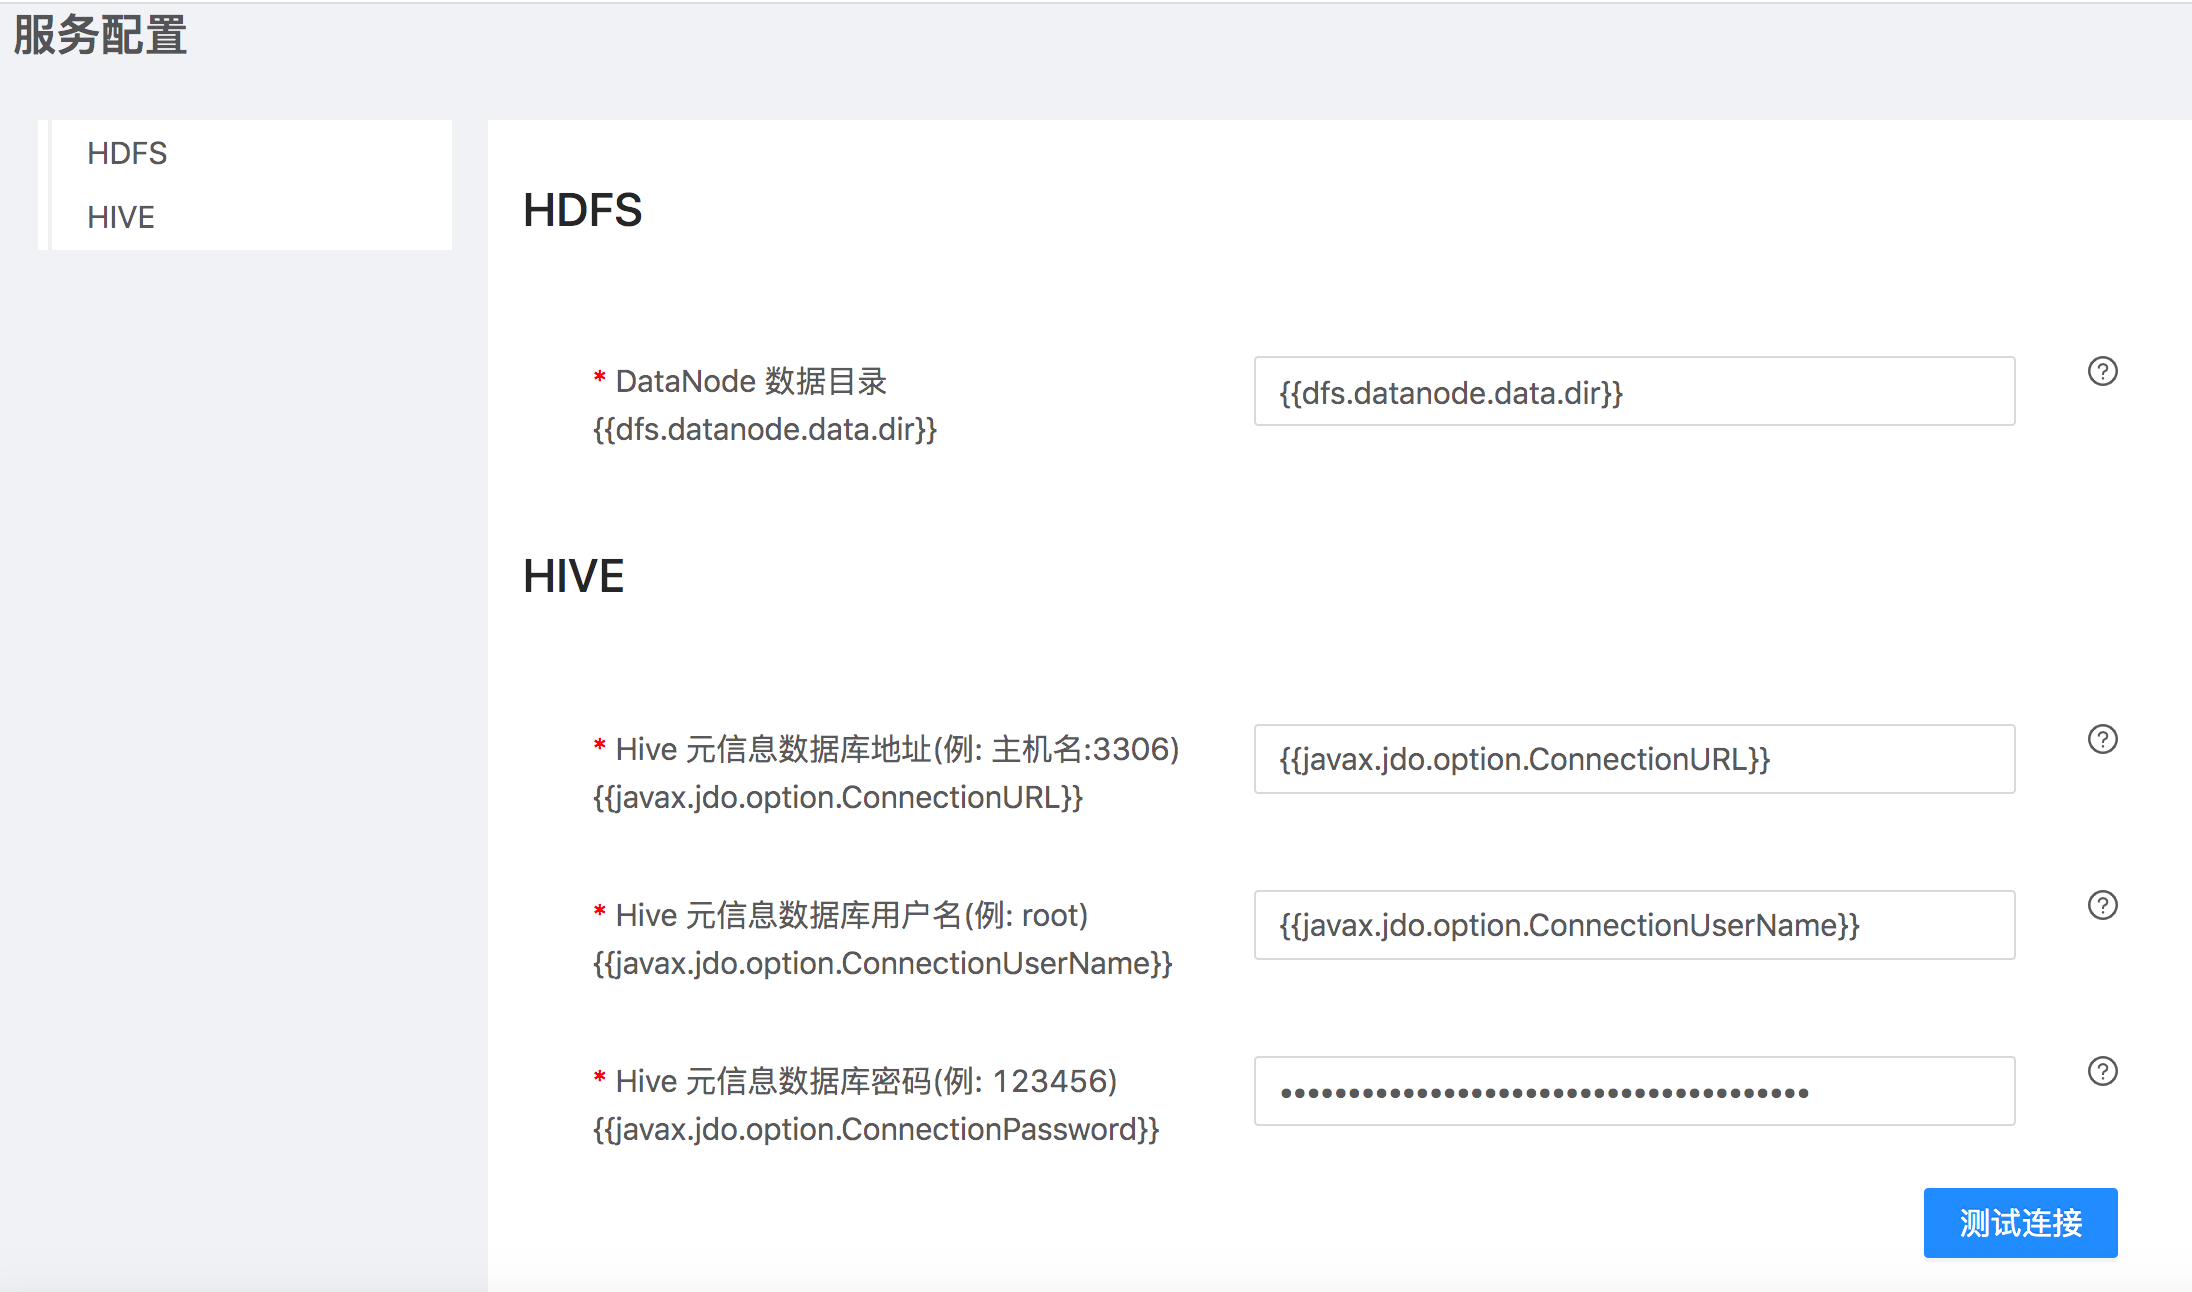
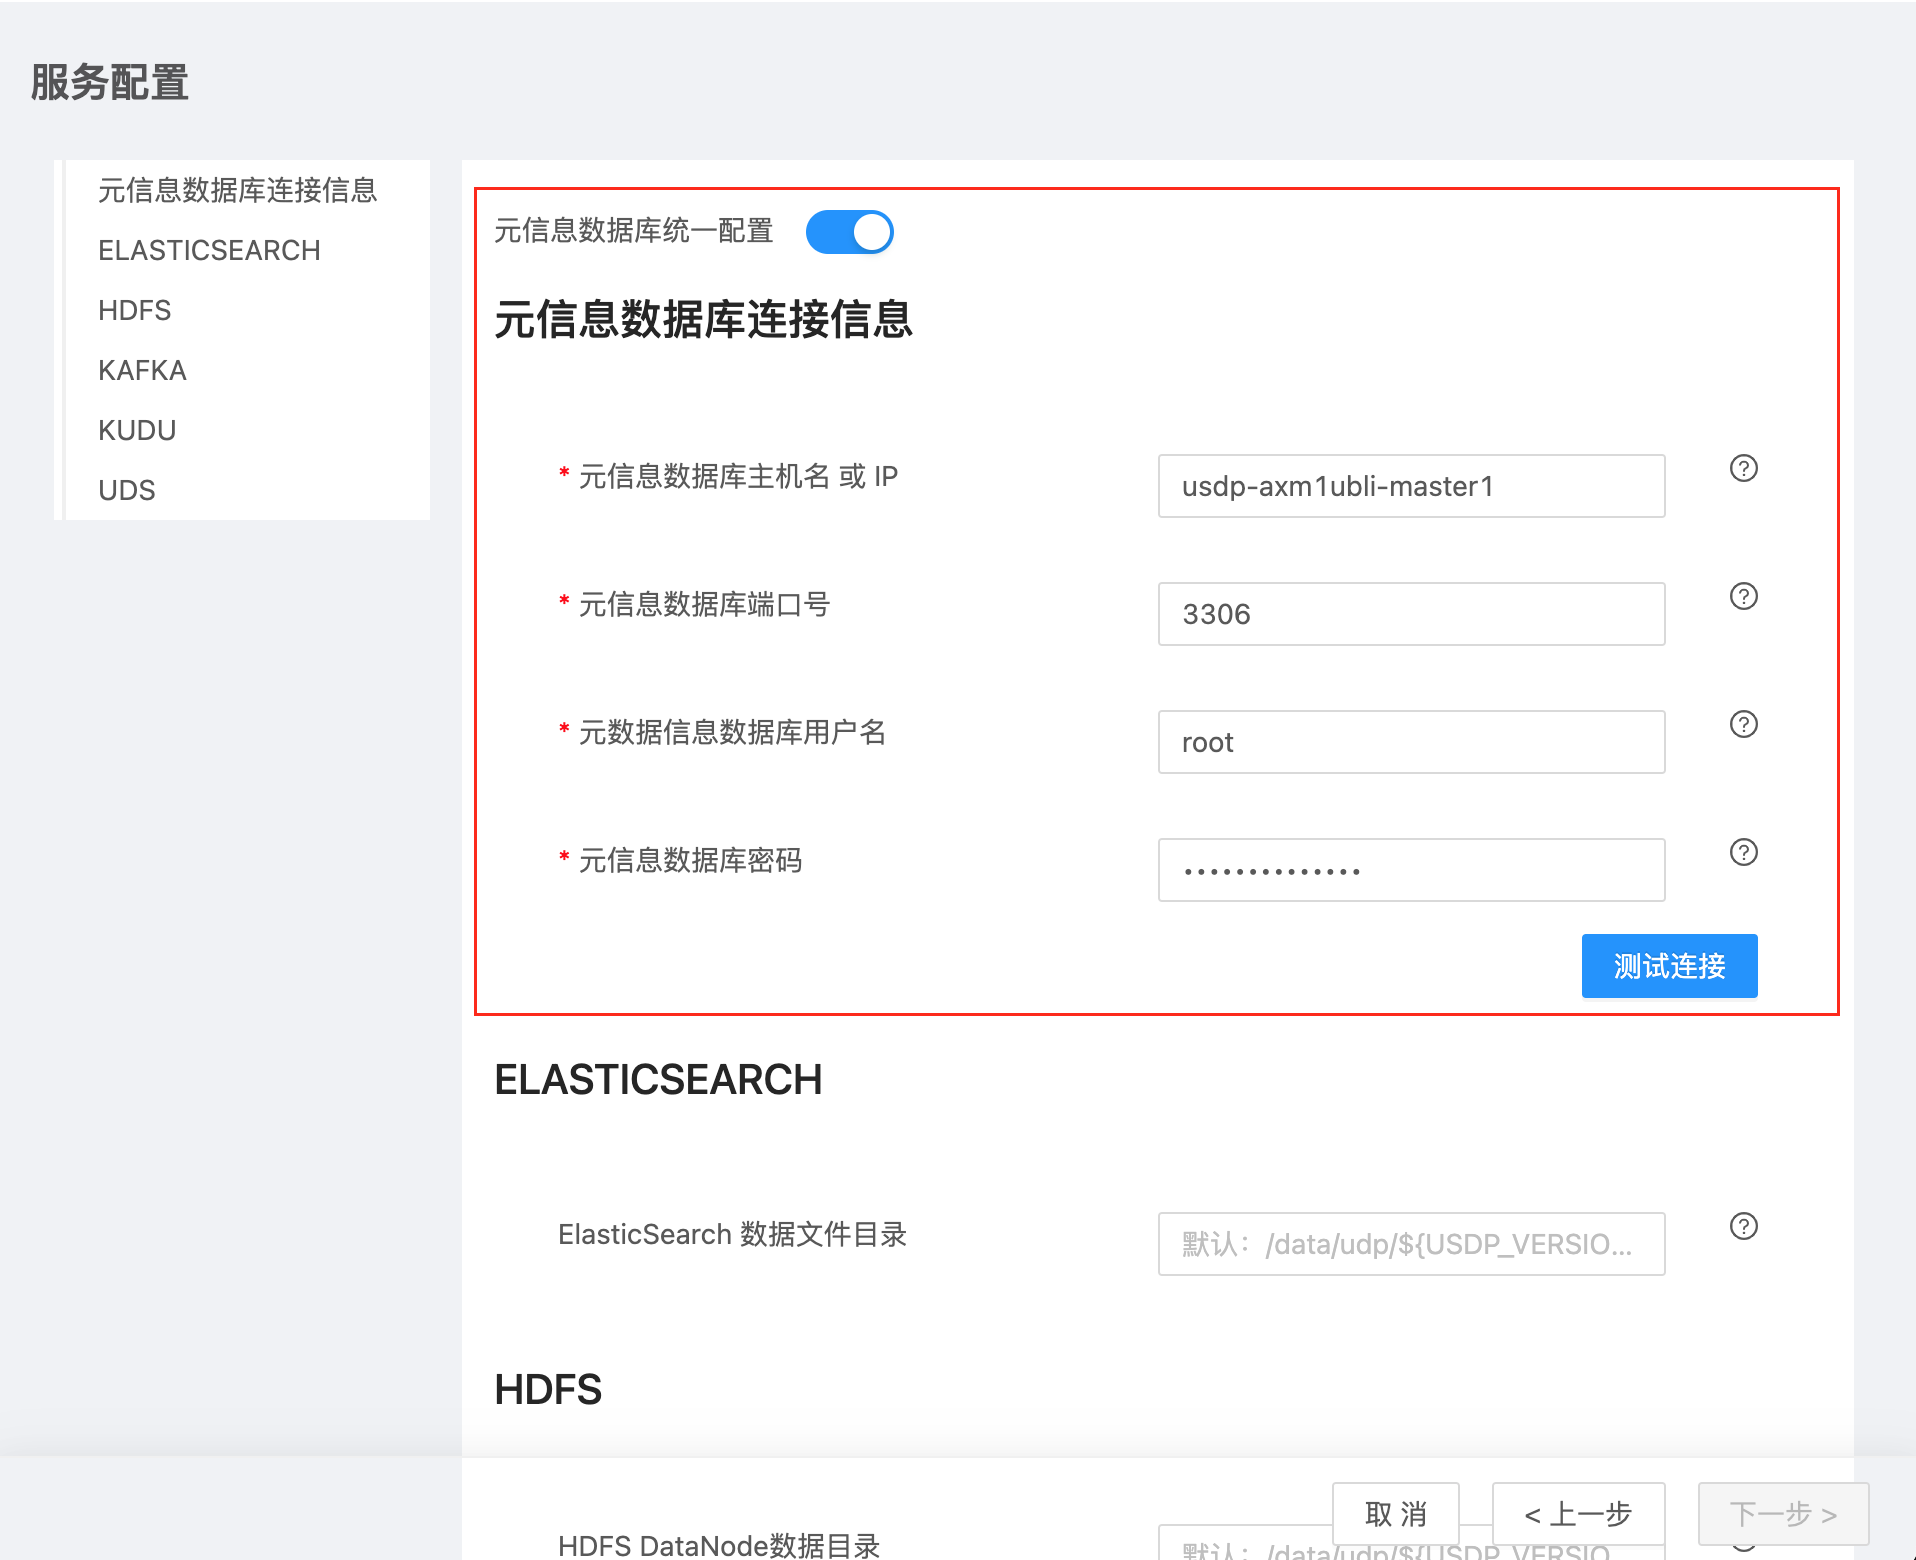
集群安装指南更新

diff --git a/operate/cluster.md b/operate/cluster.md
@@ -17,23 +17,23 @@
 
 登陆[UCloud云控制台](https://console.ucloud.cn/)。
 
-#### 1 进入产品页面
+### 1 进入产品页面
 
 进入公有云控制台首页后，点击左上角“全部产品”，在“数据分析”类目中点击“智能大数据平台USDP”，进入USDP集群管理页面。
 
 ![ucloud_console_usdp](../images/operate/cluster/ucloud_console_usdp.png)
 
-#### 2 点击 <kbd>创建集群</kbd> 按钮开始创建USDP集群资源
+### 2 点击 <kbd>创建集群</kbd> 按钮开始创建USDP集群资源
 
 ![](../images/operate/cluster/创建集群.png)
 
-#### 3 设置地域和可用区信息
+### 3 设置地域和可用区信息
 
 请根据您的需要，在创建集群向导中设置新集群所归属的地域及可用区信息。
 
 ![](../images/operate/cluster/地域和可用区选择.png)
 
-#### 4 集群和软件设置
+### 4 集群和软件设置
 
 在此模块需要您设置并完善新集群所属VPC和子网信息、集群名称填写、框架及版本信息。
 
@@ -42,7 +42,7 @@
 ![](../images/operate/cluster/集群和软件设置.png)
 
 
-####  5 节点设置
+###  5 节点设置
 
 ![](../images/operate/cluster/节点设置.png)
 
@@ -62,14 +62,14 @@
 
     适合用于部署AlterManager、Grafana、InfluxDB、NodeExporter、Prometheus、USDPMonitor等监控服务
 
-#### 6 访问设置
+### 6 访问设置
 
 在此处填写该集群资源的所有节点root用户统一的密码。
 
 ![](../images/operate/cluster/访问设置.png)
 
 
-#### 7 等待集群部署
+### 7 等待集群部署
 
 根据集群节点资源规模不同，可能需要的部署时间会有所差异，一般情况下，创建大约会在30分钟左右完成。如下图所示，状态为正在部署中。
 
@@ -85,50 +85,74 @@
 ![node_ucloud_usdp_console_entrance](../images/operate/node/node_ucloud_usdp_console_entrance.png)
 
 #### 1 进入登录页面登录到USDP管理控制台
-    第一次登录需要设置admin用户名的登录密码。如下所示：
+第一次登录需要设置admin用户名的登录密码。如下所示：
 ![](../images/operate/cluster/输入登录信息.png)
 
 #### 2 添加服务和组件
-    在右上角“当前集群”右侧点击集群名称，点击选择"添加服务或组件"，开始部署集群服务。
+在右上角“当前集群”右侧点击集群名称，点击选择"添加服务或组件"，开始部署集群服务。
 ![](../images/operate/cluster/添加服务和组件.png)
 
 #### 3 选择服务
-    您可以在“服务组合方案”出从推荐方案A\B\C中进行选择，或“自定义”您需要的服务，其中“监控”服务是默认必须选择的，您无法取消。
-    
-    如下图所示：
- ![](../images/operate/cluster/选择服务.png)
+USDP支持大数据生态服务较多，在集群安装时，用户根据业务需要，灵活选择所需安装的组件。
+
+您可以在“服务组合方案”出从推荐方案A\B\C中进行选择，或“自定义”您需要的服务，其中“监控”服务是默认必须选择的，您无法取消。如下图所示：
+![](../images/operate/cluster/选择服务.png)
 
 #### 4 选择组件安装
-    由于选项非常多，建议采用“智能推荐”的方式进行选择，或者在“智能推荐”的基础上进行修改。
-    
-    以下，USDP建议，请您参考：
-    *  NameNode建议安装在usdp-***-masster*的节点上，否则NameNode出现异常时，主从切换会失败
-    * 节点名称usdp-***-masster*的节点，建议用于部署zookeeper、Journalnode、NameNode、Resourcemanager、Hmaster、Hive等服务和组件的master节点，可视化和调度组件如Hue、oozie、kibana、zkui也建议部署在Master节点上。
-    * 节点名称usdp-***-core*核心节点，建议用于存储数据（HDFS）与运行任务。建议部署datanode、nodemanager、regionserver、presto work、impala。
-    * 节点名称usdp-***-task*的节点，建议用于部署计算资源，建议用来部署Nodemanager、Client。
-    * 节点名称usdp-***-monitor*的节点，建议用于部署AlterManager、Grafana、InfluxDB、NodeExporter、Prometheus、USDPMonitor等监控服务。
-       
-    您也可根据您的需要，进行灵活规划并实时部署。
+大数据生态各服务，均由不同的组件构成，安装集群时，用户可根据业务需求规划，将不同的服务及组件分别都安装到集群的那些节点上。
 
- ![](../images/operate/cluster/选择组件安装节点.png)
+若用户选择安装的服务较多或如上图中用户选择推荐方案A（全量部署方案），由于组件选项非常多，建议采用“智能推荐”的方式进行选择，或者在“智能推荐”的基础上进行修改。如下图所示：
 
-  #### 5 服务配置
-     请填写所有相关服务的配置信息，其中“HIVE”、“HUE”、“KAFKA”、“KAFKAEAGLE”、“OOZIE”、“RANGER”提供了“测试连接”功能，您可以对各配置项的正确性进行测试验证。
-     
-     待所有的测试连接均通过后方可进入向导“下一步”。如下图所示：
- ![](../images/operate/cluster/服务配置.png)
+![](../images/operate/cluster/选择组件安装节点.png)
 
- #### 6 部署信息总览
-     至此，为您总览以上向导步骤中完成的所有选择及配置信息汇总展示，请确认无误后点击“开始部署”按钮开始集群的服务组件部署工作。如下图所示： 
- ![](../images/operate/cluster/部署服务.png)
+> 以下，USDP建议，请您参考： </br>NameNode建议安装在usdp-*-masster的节点上，否则NameNode出现异常时，主从切换会失败。</br>节点名称为usdp-*-masster的节点，建议用于部署zookeeper、Journalnode、NameNode、Resourcemanager、Hmaster、Hive等服务和组件的master节点，可视化和调度组件如Hue、oozie、kibana、zkui也建议部署在Master节点上。</br>节点名称usdp-*-core核心节点，建议用于存储数据（HDFS）与运行任务。建议部署datanode、nodemanager、regionserver、presto work、impala。</br>节点名称usdp-*-task的节点，建议用于部署计算资源，建议用来部署Nodemanager、Client。</br>节点名称usdp-*-monitor的节点，建议用于部署AlterManager、Grafana、InfluxDB、NodeExporter、Prometheus、USDPMonitor等监控服务。
 
- #### 7 安装并启动服务
-    当服务安装发生错误时，您可以点击查看报错节点“失败”详情，参考详情提示信息，进行手动修复错误操作，之后点击“全部重试”按钮，重新进行服务组件部署工作。
-  ![](../images/operate/cluster/安装并部署服务.png)
+您也可根据您的需要，进行灵活规划并实时部署。
 
-  待所有节点正常安装成功后，即可点击 <kbd>完成</kbd> 按钮，退出集群服务安装向导。此时新集群服务已安装完成。
+#### 5 服务配置
+USDP默认将自身管理元信息、集群中大数据服务的相关元信息，统一配置至Master1节点的MySQL数据库中，默认开启“元信息数据库统一配置”、默认填充该MySQL的相关连接信息，点击 <kbd>测试连接</kbd> 按钮即可测试是否正常，如下图所示：
+
+![](../images/operate/cluster/服务配置.png)
+
+?> 元信息数据库配置涉及的服务有：</br>HIVE、HUE、OOZIE、RANGER、UDS等五个服务。</br> MySQL版本：5.7.30
+
+在此，请填写其他相关服务的配置信息，其中“ELASTICSEARCH”、“HDFS”、“KAFKA”、“KUDU”等相关数据存储目录信息。如下图所示：
+
+![](../images/operate/cluster/服务配置_lib.png)
+
+“UDS”邮件服务器配置信息，可默认不填，并在集群安装完成后进入USDP控制台后，即可进入向导“下一步”。
+
+![](../images/operate/cluster/服务配置_uds.png)
+
+##### 元信息数据库独立配置
+
+若用户计划将“HIVE”、“HUE”、“OOZIE”、“RANGER”、“UDS”等服务的元信息数据库独立管理，此时，可点击取消 “元信息数据库统一配置” 右侧的滑块，同时，下方页面即会显示这些服务所需的数据库连接填写的表单，按要求填写，并分别点击下方的 <kbd>测试连接</kbd> 按钮，按钮变为绿色，即为测试连接成功。此后，即可进入向导下一步中。如下图所示：
+
+![](../images/operate/cluster/服务配置_db.png)
+
+#### 6 部署信息总览
+至此，为您总览以上向导步骤中完成的所有选择及配置信息汇总展示，请确认无误后点击“开始部署”按钮开始集群的服务组件部署工作。如下图所示： 
+![](../images/operate/cluster/部署服务.png)
+
+#### 7 安装并启动服务
+当服务安装发生错误时，您可以点击查看报错节点“失败”详情，参考详情提示信息，进行手动修复错误操作，之后点击“全部重试”按钮，重新进行服务组件部署工作。
+![](../images/operate/cluster/安装并部署服务.png)
+
+部署过程中，各个节点正在进行的部署进展，均可通过进度条实时展示，可点击 “详情” 栏中的各个链接，查看当前进展详情，如下图所示：
+
+![](../images/operate/cluster/安装并部署服务_stats.png)
+
+点击对话框 - “安装任务栏” 的各个链接，几个查看其单个安装任务的执行日志，这将在安装过程中出错时变得很有用。如下图所示：
+
+![](../images/operate/cluster/安装并部署服务_log.png)
+
+![](../images/operate/cluster/安装并部署服务_retry.png)
+
+当安装过程中出现任务失败的情况，USDP会在左上角显示 <kbd>全部重试</kbd> 按钮，可点击重试安装。
+
+待所有节点正常安装成功后，即可点击 <kbd>完成</kbd> 按钮，退出集群服务安装向导。此时新集群服务已安装完成。
 
 
 
-  其他更多操作，请参考本文档 “操作指南” 和 “开发指南” 相关章节文档内容。
+其他更多操作，请参考本文档 “操作指南” 和 “开发指南” 相关章节文档内容。
 
